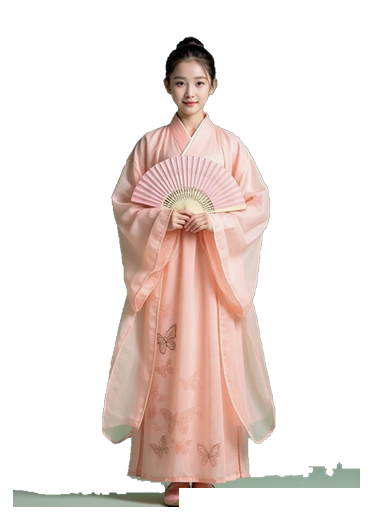
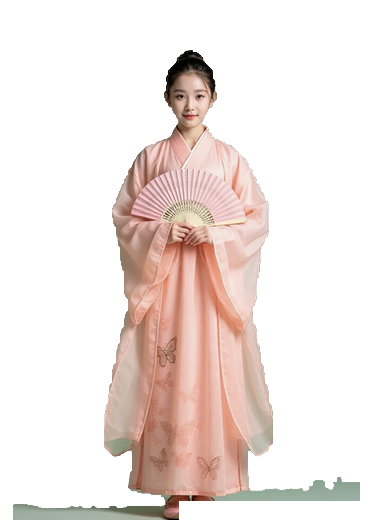
修复立绘不更新：资源挂构建号查询串，并修正女版居中

Changed region(s): [[0.0295, 0.0615, 0.9732, 1.0], [0.5013, 0.7692, 0.5308, 0.8], [0.5013, 0.7077, 0.5308, 0.7385]]

diff --git a/js/figure.js b/js/figure.js
@@ -581,9 +581,9 @@
     if (typeof Image !== 'function') return;
     var all = [];
     [HERO_IMG, MOB_IMG].forEach(function (m) {
-      for (var k in m) if (m[k]) all.push(m[k]);
+      for (var k in m) if (m[k]) all.push(ver(m[k]));
     });
-    if (HERO_IMG_FALLBACK) all.push(HERO_IMG_FALLBACK);
+    if (HERO_IMG_FALLBACK) all.push(ver(HERO_IMG_FALLBACK));
     all.forEach(function (src) {
       if (IMG_OK[src] || IMG_BAD[src]) return;
       var im = new Image();
@@ -593,6 +593,31 @@
     });
   }
 
+  /* 立绘资源统一挂构建号查询串
+     换图时文件名不变，浏览器会继续用旧缓存 —— 表现就是「后台明明换了图，
+     手机上还是老样子（人物不在格子里）」。挂上 window.CUR（index.html 的
+     构建号）后，每次发版 URL 自动变化，强制取新图。 */
+  function buildVer() {
+    /* 构建号取自本文件自己的 <script src="js/figure.js?v=xxx">：
+       index.html 的 CUR 在 IIFE 里、取不到，读自身 URL 最稳。 */
+    try {
+      var all = document.getElementsByTagName('script');
+      for (var i = all.length - 1; i >= 0; i--) {
+        var s = all[i].getAttribute('src') || '';
+        if (s.indexOf('figure.js') >= 0) {
+          var m = s.match(/[?&]v=([^&]+)/);
+          return m ? decodeURIComponent(m[1]) : '';
+        }
+      }
+    } catch (e) { }
+    return '';
+  }
+  var BUILD = buildVer();
+
+  function ver(src) {
+    return src ? (src + (BUILD ? '?v=' + BUILD : '')) : '';
+  }
+
   function hero(sectId, gender) {
     if (gender === 'female') {
       /* v28：门派专属女版图 → 门派专属女版立绘（SVG）→（不再退回通用女图）。
@@ -600,14 +625,14 @@
          于是五个门派的女相全部是同一张通用图 —— 也就是「选女之后形象全都一样」。
          现在中间补一层「按门派绘制的女版 SVG」（hero-female.js）：
          五个门派各有其形，且与男版共用同一套门派配色与兵器。 */
-      var want = HERO_IMG_F[sectId] || '';
+      var want = ver(HERO_IMG_F[sectId]);
       var svgF = (global.HERO_FEMALE && global.HERO_FEMALE[sectId])
         ? global.HERO_FEMALE[sectId]()
         : heroSvgCached(sectId);
       if (!want || IMG_BAD[want]) return svgF;      /* 门派女版图缺失 → 用门派女版 SVG */
       return imgFig(want, { key: 'hf:' + sectId, gender: 'female', svg: svgF });
     }
-    var src = HERO_IMG[sectId];
+    var src = ver(HERO_IMG[sectId]);
     if (!src) return heroSvgCached(sectId);
     return imgFig(src, { key: 'hm:' + sectId, svg: heroSvgCached(sectId) });
   }

diff --git a/index.html b/index.html
@@ -28,8 +28,8 @@
   if (mt) mt.setAttribute('content', mode === 'day' ? '#e7eef4' : '#0c0a09');
 })();
 </script>
-<script src="js/viewport.js?v=202609232227"></script>
-<link rel="stylesheet" href="css/style.css?v=202609232227" />
+<script src="js/viewport.js?v=202609232241"></script>
+<link rel="stylesheet" href="css/style.css?v=202609232241" />
 </head>
 <body>
 <div id="app">
@@ -131,22 +131,22 @@
 </div>
 <div class="rotate-tip" id="rotate-tip">请竖屏握持手机</div>
 
-<script src="js/icons.js?v=202609232227"></script>
+<script src="js/icons.js?v=202609232241"></script>
 <script>if (window.LUCIDE_SPRITE) document.body.insertAdjacentHTML('afterbegin', window.LUCIDE_SPRITE);</script>
-<script src="js/data.js?v=202609232227"></script>
-<script src="js/mob-art.js?v=202609232227"></script>
-<script src="js/hero-female.js?v=202609232227"></script>
-<script src="js/figure.js?v=202609232227"></script>
-<script src="js/skeleton.js?v=202609232227"></script>
-<script src="js/figure-motion.js?v=202609232227"></script>
-<script src="js/music.js?v=202609232227"></script>
-<script src="js/account.js?v=202609232227"></script>
-<script src="js/tcb-sdk.js?v=202609232227"></script>
+<script src="js/data.js?v=202609232241"></script>
+<script src="js/mob-art.js?v=202609232241"></script>
+<script src="js/hero-female.js?v=202609232241"></script>
+<script src="js/figure.js?v=202609232241"></script>
+<script src="js/skeleton.js?v=202609232241"></script>
+<script src="js/figure-motion.js?v=202609232241"></script>
+<script src="js/music.js?v=202609232241"></script>
+<script src="js/account.js?v=202609232241"></script>
+<script src="js/tcb-sdk.js?v=202609232241"></script>
 <script>window.LX_TCB_ENV = 'lingxu-7-d0ggtxsjw13210d0c';</script>
-<script src="js/core.js?v=202609232227"></script>
-<script src="js/render.js?v=202609232227"></script>
-<script src="js/ui.js?v=202609232227"></script>
-<script src="js/main.js?v=202609232227"></script>
+<script src="js/core.js?v=202609232241"></script>
+<script src="js/render.js?v=202609232241"></script>
+<script src="js/ui.js?v=202609232241"></script>
+<script src="js/main.js?v=202609232241"></script>
 <script>
 /* ===================== 自动更新到最新版 =====================
    发布时 BUILD 会被替换为发布时间戳：
@@ -154,7 +154,7 @@
      · 每 45 秒 / 每次切回前台检查 version.json，发现新版自动刷新
    存档在 localStorage，刷新不会丢进度。 */
 (function () {
-  var CUR = '202609232227';
+  var CUR = '202609232241';
   var busy = false;
   function check() {
     if (busy) return;
